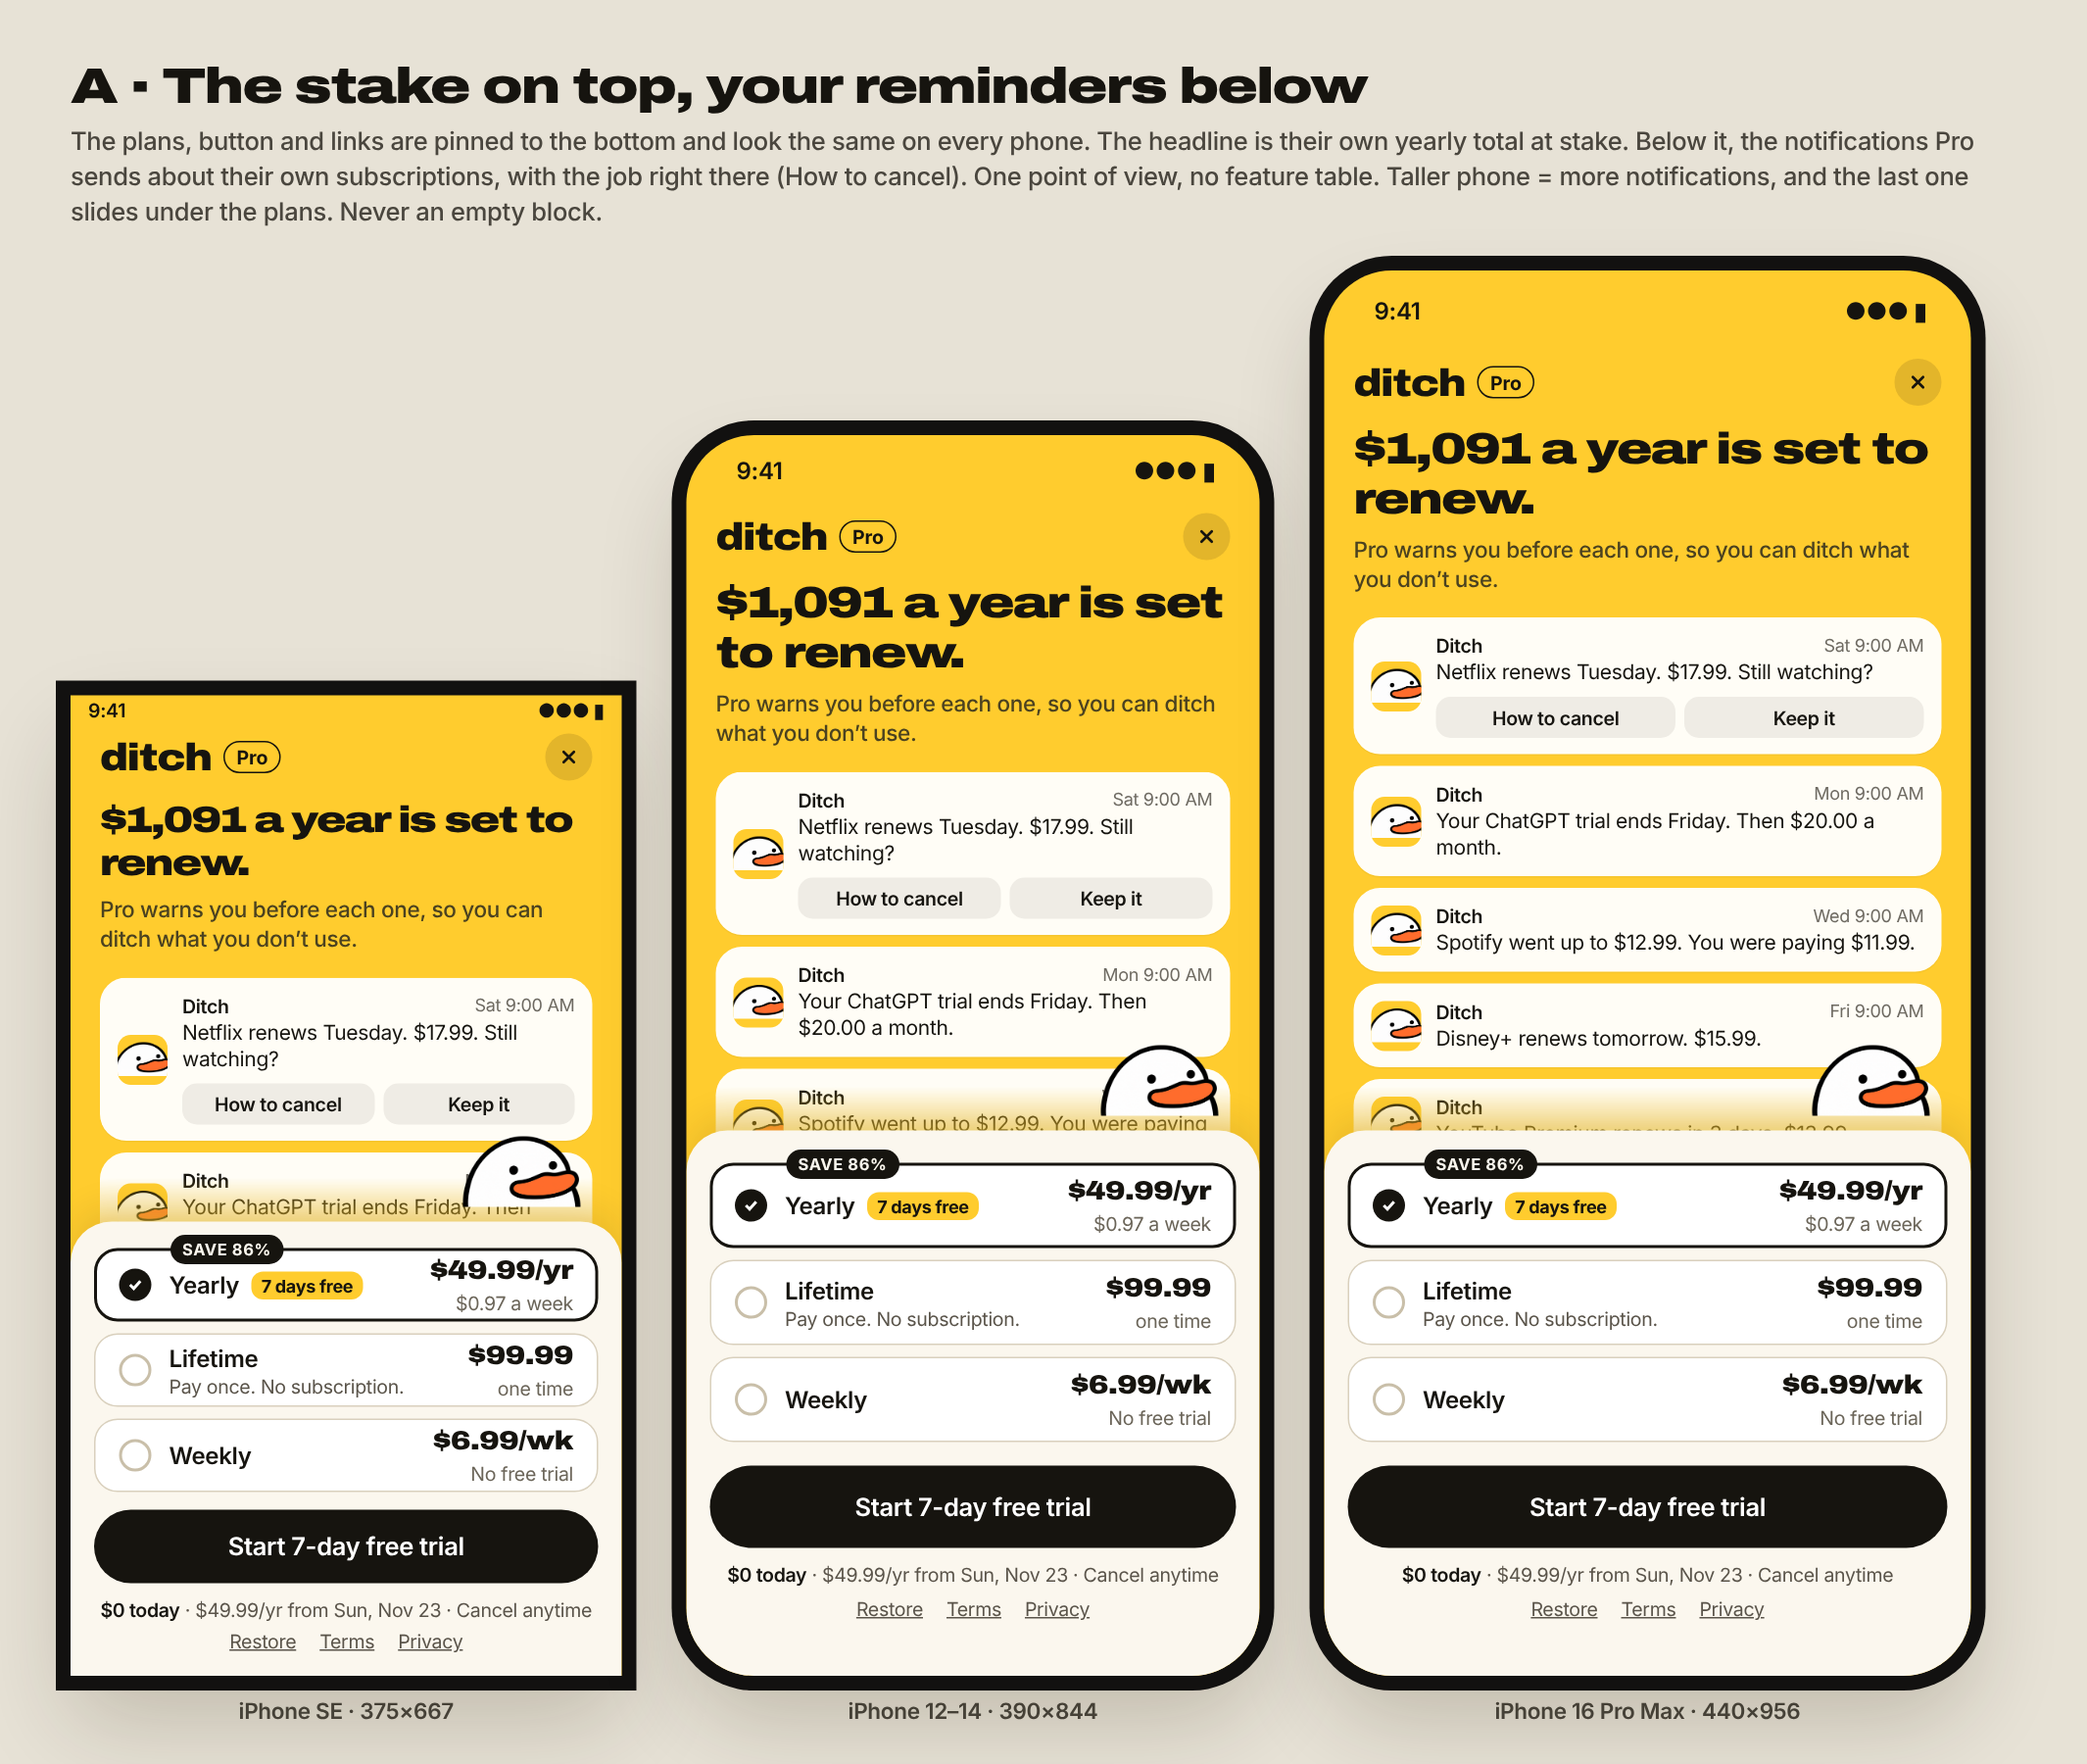
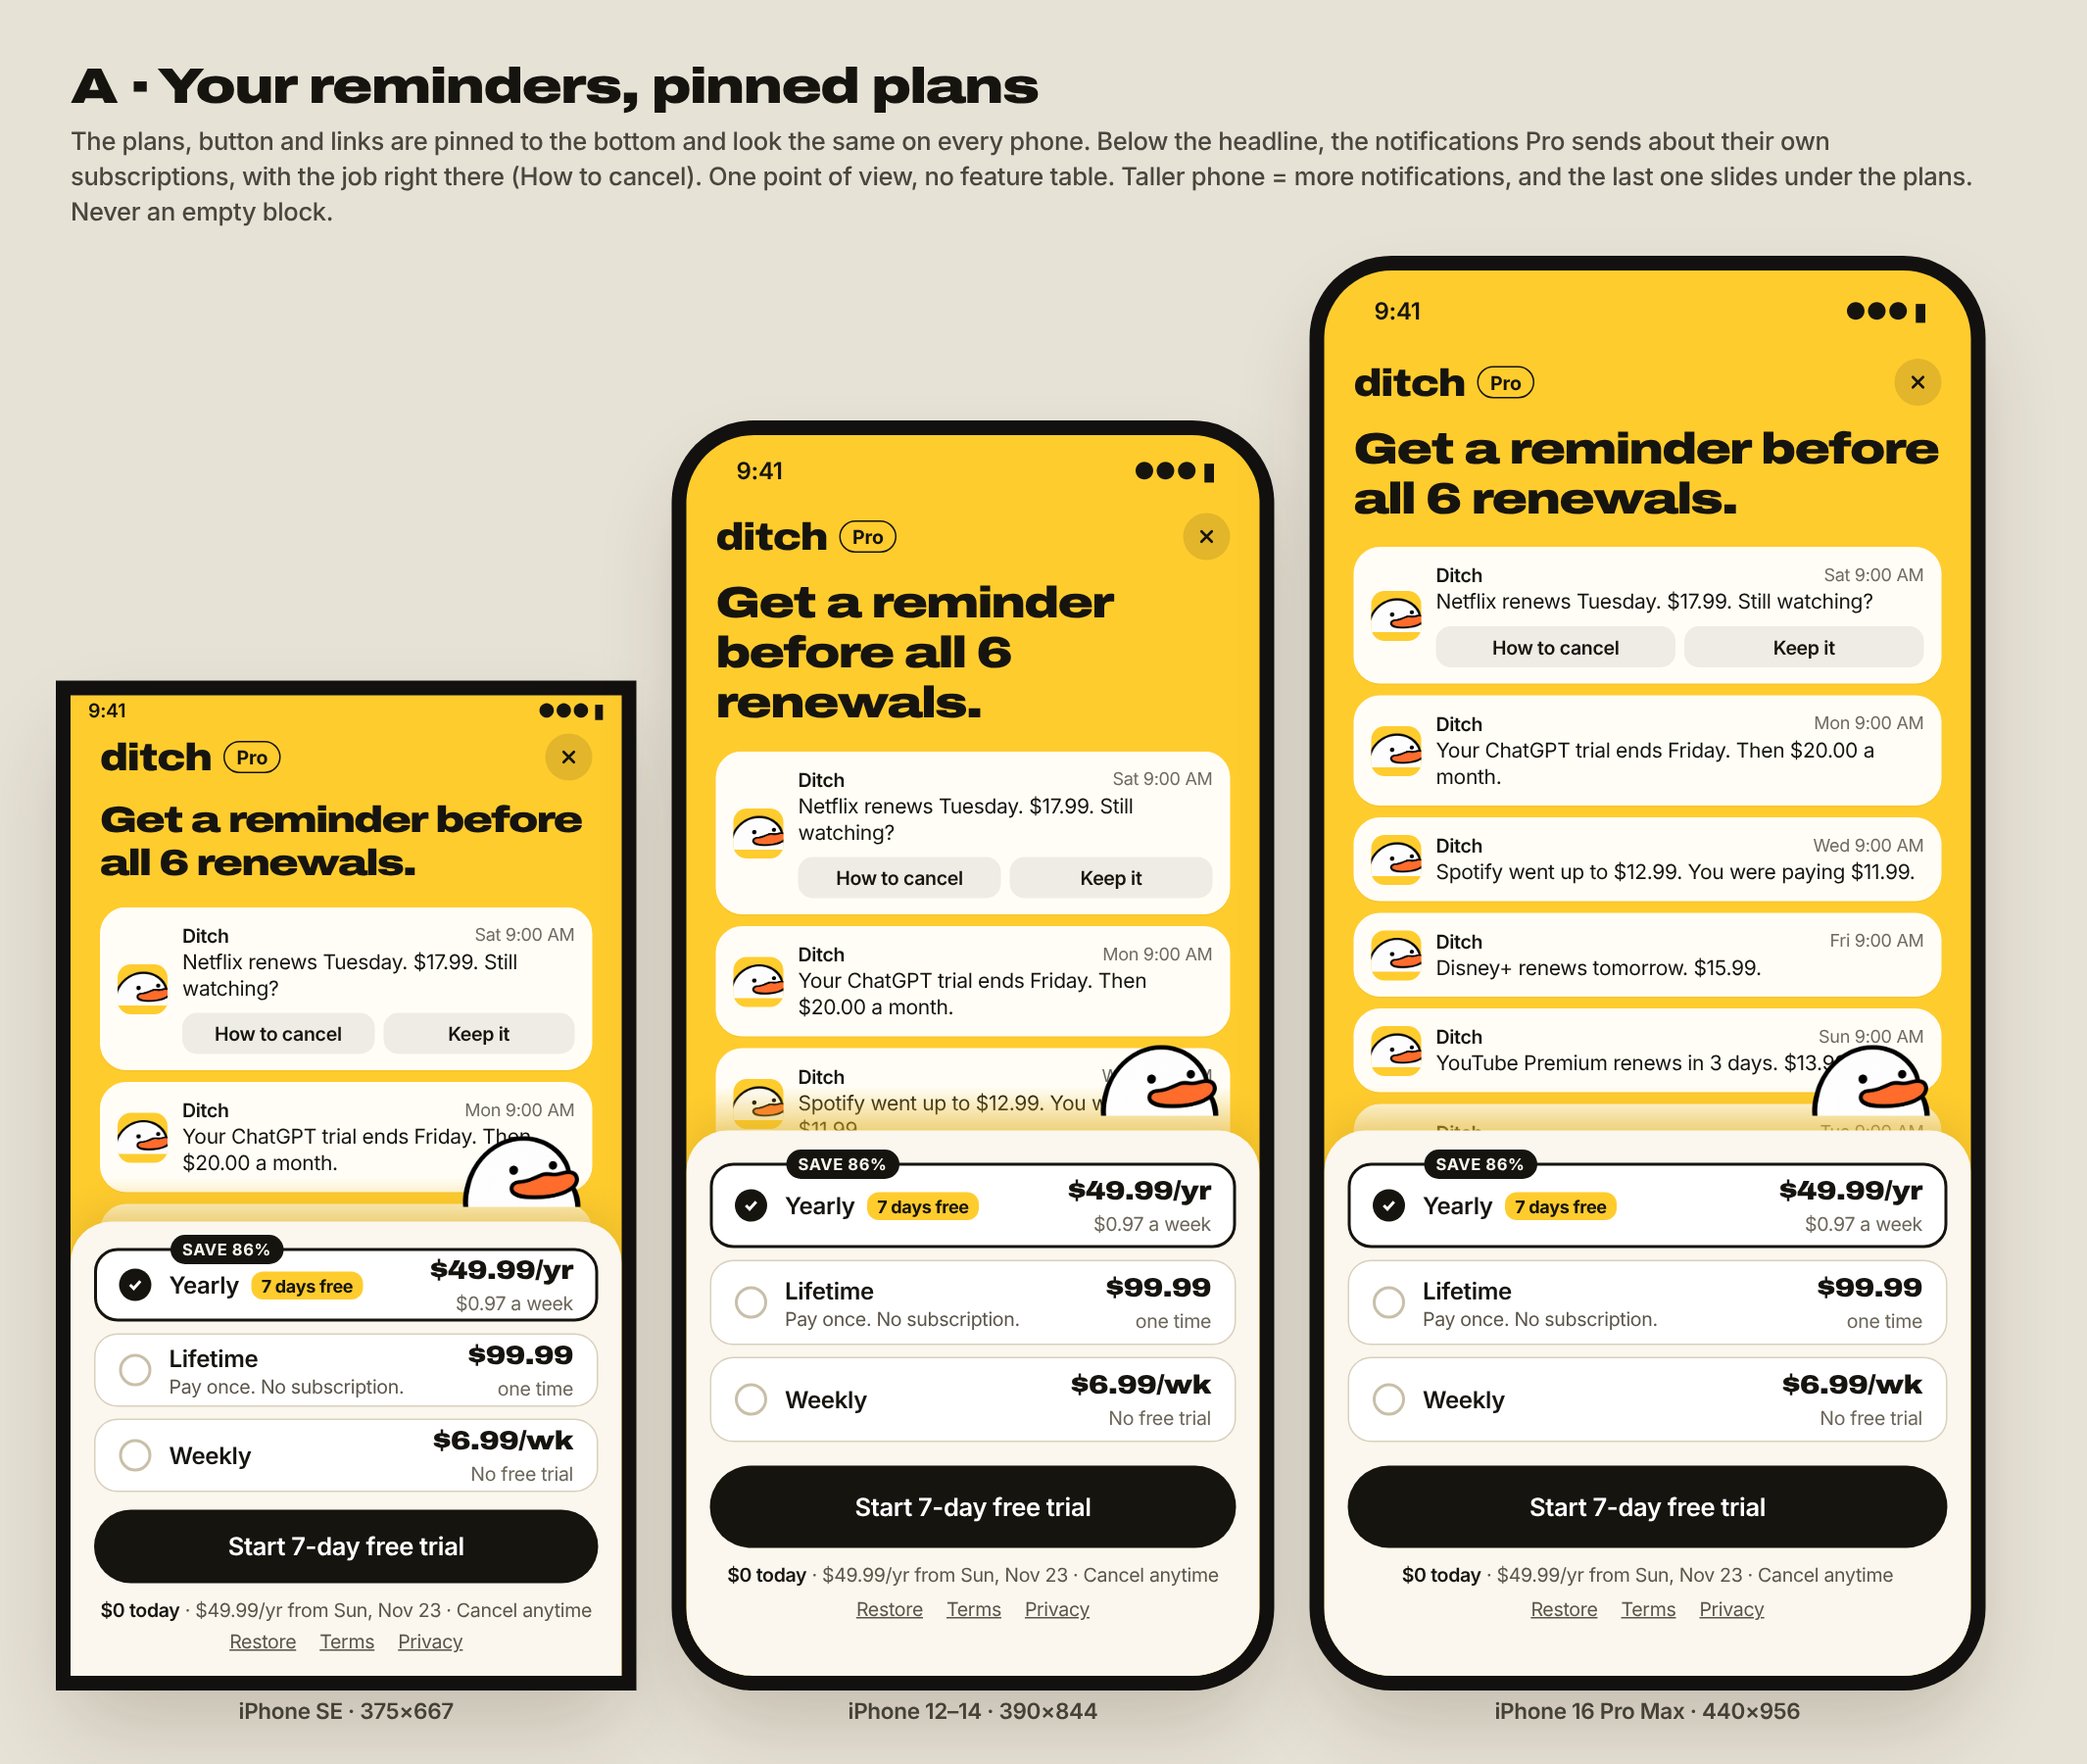
Design v17 A: back to the reminder headline (no stake)
Claude-Session: https://claude.ai/code/session_01Q8GFjWCZXwnj2nAcxjTkxh

diff --git a/design/v17/paywall.html b/design/v17/paywall.html
@@ -98,8 +98,7 @@ h2{font:900 34px/38px Archivo;font-stretch:125%;letter-spacing:-1px;margin:0 0 6
 <template id="heroA">
  <div class="hero">
   <div class="bar"><span class="lock">ditch <span class="pro">Pro</span></span><span class="x"><svg width="14" height="14" viewBox="0 0 24 24" fill="none" stroke="#16140F" stroke-width="3" stroke-linecap="round"><path d="M6 6l12 12M18 6L6 18"/></svg></span></div>
-  <h1 class="title">$1,091 a year is set to renew.</h1>
-  <p class="lead">Pro warns you before each one, so you can ditch what you don’t use.</p>
+  <h1 class="title">Get a reminder before all 6 renewals.</h1>
   <div class="stack">
    <div class="nt"><span class="app"><img src="../v12/duck.png"></span><div class="t"><div class="h">Ditch<span>Sat 9:00 AM</span></div><div class="m">Netflix renews Tuesday. $17.99. Still watching?</div><div class="acts"><span>How to cancel</span><span>Keep it</span></div></div></div>
    <div class="nt"><span class="app"><img src="../v12/duck.png"></span><div class="t"><div class="h">Ditch<span>Mon 9:00 AM</span></div><div class="m">Your ChatGPT trial ends Friday. Then $20.00 a month.</div></div></div>
@@ -123,8 +122,8 @@ h2{font:900 34px/38px Archivo;font-stretch:125%;letter-spacing:-1px;margin:0 0 6
  </div>
 </template>
 
-<h2>A · The stake on top, your reminders below</h2>
-<p class="lede">The plans, button and links are pinned to the bottom and look the same on every phone. The headline is their own yearly total at stake. Below it, the notifications Pro sends about their own subscriptions, with the job right there (How to cancel). One point of view, no feature table. Taller phone = more notifications, and the last one slides under the plans. Never an empty block.</p>
+<h2>A · Your reminders, pinned plans</h2>
+<p class="lede">The plans, button and links are pinned to the bottom and look the same on every phone. Below the headline, the notifications Pro sends about their own subscriptions, with the job right there (How to cancel). One point of view, no feature table. Taller phone = more notifications, and the last one slides under the plans. Never an empty block.</p>
 <div class="row" id="rowA"></div>
 
 <h2>B · How the free week works</h2>
